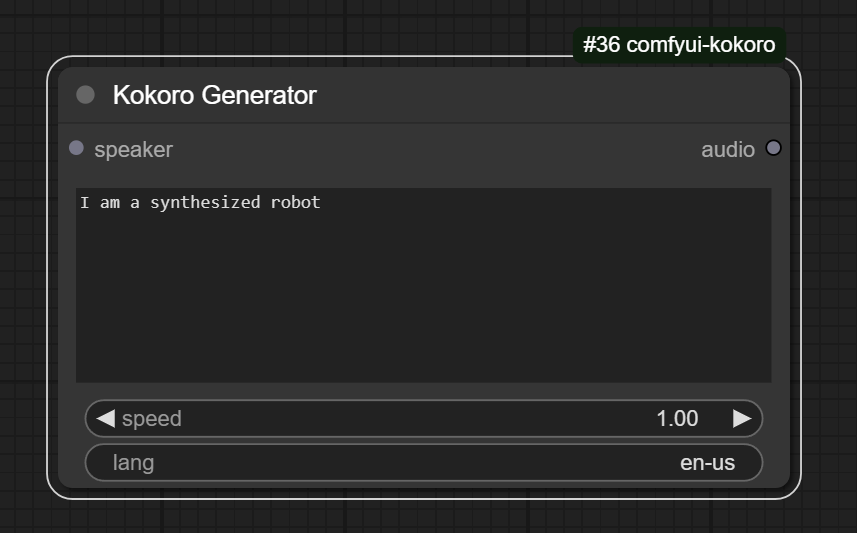
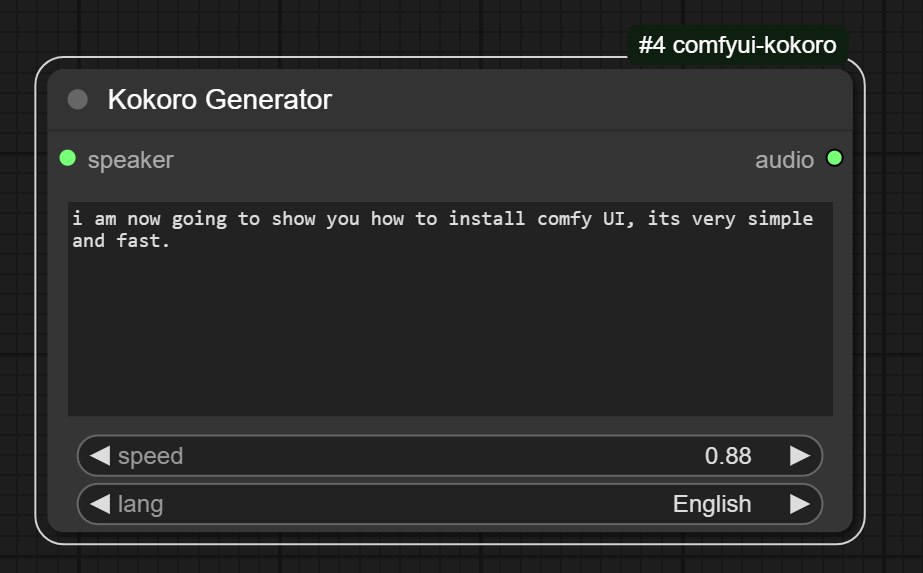
Add languages menu

Changed region(s): [[0.0303, 0.06, 0.9405, 0.9606]]

diff --git a/ComfyUIKokoro.py b/ComfyUIKokoro.py
@@ -13,6 +13,17 @@ MODEL_URL = "https://github.com/taylorchu/kokoro-onnx/releases/download/v0.2.0/k
 MODEL_FILENAME = "kokoro_v1.onnx"
 VOICES_FILENAME = "voices_v1.bin"
 
+supported_languages_display = ["English", "English (British)","French", "Japanese", "Korean", "Mandarin Chinese"]
+
+supported_languages = {
+    supported_languages_display[0]: "en-us",
+    supported_languages_display[1]: "en-gb",
+    supported_languages_display[2]: "fr-fr",
+    supported_languages_display[3]: "ja",
+    supported_languages_display[4]: "ko",
+    supported_languages_display[5]: "cmn",
+}
+
 supported_voices =[
     # American Female
     "af_heart",
@@ -202,9 +213,9 @@ class KokoroGenerator:
                 "text": ("STRING", {"multiline": True, "default": "I am a synthesized robot"}),
                 "speaker": ("KOKORO_SPEAKER", ),
                 "speed": ("FLOAT", {"default": 1, "min": 0.1, "max": 4, "step": 0.05}),
-                "lang": ("STRING", {
-                    "multiline": False,
-                    "default": "en-us"
+                "lang": (
+                    supported_languages_display,
+                    {"default": "English"
                 }),
 
             },
@@ -227,29 +238,34 @@ class KokoroGenerator:
         download_model(self.node_dir)
         download_voices(self.node_dir)
 
-        np_load_old = np.load
-        np.load = lambda *a, **k: np_load_old(*a, allow_pickle=True, **k)
+        # np_load_old = np.load
+        # np.load = lambda *a, **k: np_load_old(*a, allow_pickle=True, **k)
+
+        lang = supported_languages[lang]
+
+        if lang is None:
+            lang = "en-us"
 
         try:
             kokoro = Kokoro(model_path=self.model_path, voices_path=self.voices_path)
         except Exception as e:
              logger.error(f"ERROR: could not load kokoro-onnx in generate: {e}")
-             np.load = np_load_old
+             # np.load = np_load_old
              return (None,)
 
         try:
             audio, sample_rate = kokoro.create(text, voice=speaker["speaker"], speed=speed, lang=lang)
         except Exception as e:
             logger.error(f"{e}")
-            np.load = np_load_old
+            # np.load = np_load_old
             return (None,)
 
         if audio is None:
              logger.error("no audio is generated")
-             np.load = np_load_old
+             # np.load = np_load_old
              return (None,)
 
-        np.load = np_load_old
+        # np.load = np_load_old
         audio_tensor = torch.from_numpy(audio).unsqueeze(0).unsqueeze(0).float()  # Add a batch dimension AND a channel dimension
 
         return ({"waveform": audio_tensor, "sample_rate": sample_rate},) #return as tuple

diff --git a/README.md b/README.md
@@ -3,6 +3,7 @@
 <a href="https://www.buymeacoffee.com/stavsapq" target="_blank"><img src="https://cdn.buymeacoffee.com/buttons/default-orange.png" alt="Buy Me A Coffee" height="40" width="174"></a>
 
 <img src="https://img.shields.io/badge/v1.0-green.svg?style=for-the-badge&labelColor=gray&label=Kokoro&color=blue" alt=""/>
+<img src="https://img.shields.io/badge/0.3.7-green.svg?style=for-the-badge&labelColor=gray&label=Kokoro-onnx&color=blue" alt=""/>
 
 Kokoro TTS nodes, based on this [kokoro repo](https://github.com/thewh1teagle/kokoro-onnx)
 

diff --git a/CHANGE_LOG.md b/CHANGE_LOG.md
@@ -1,3 +1,7 @@
+02-02-2025
+
+Add supported languages as drop down menu (**might be breaking change**, default will be `English`)
+
 01-02-2025
 
 Support kokoro V1.0
